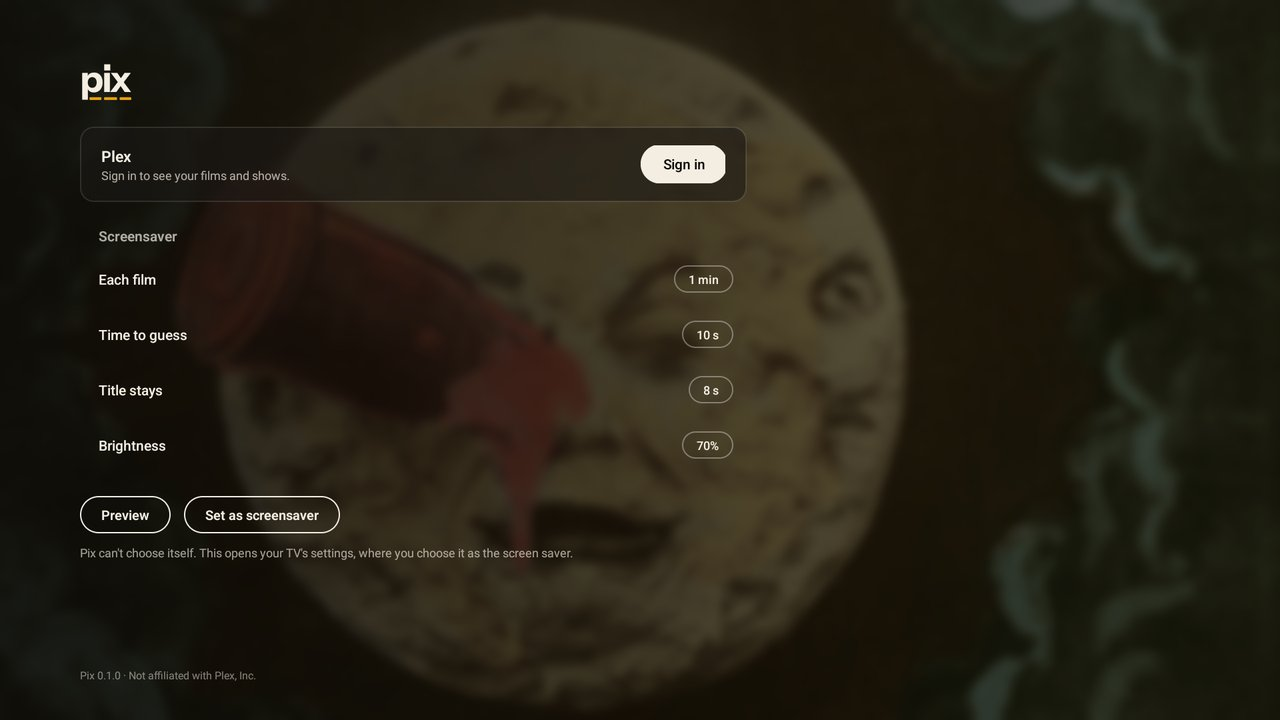
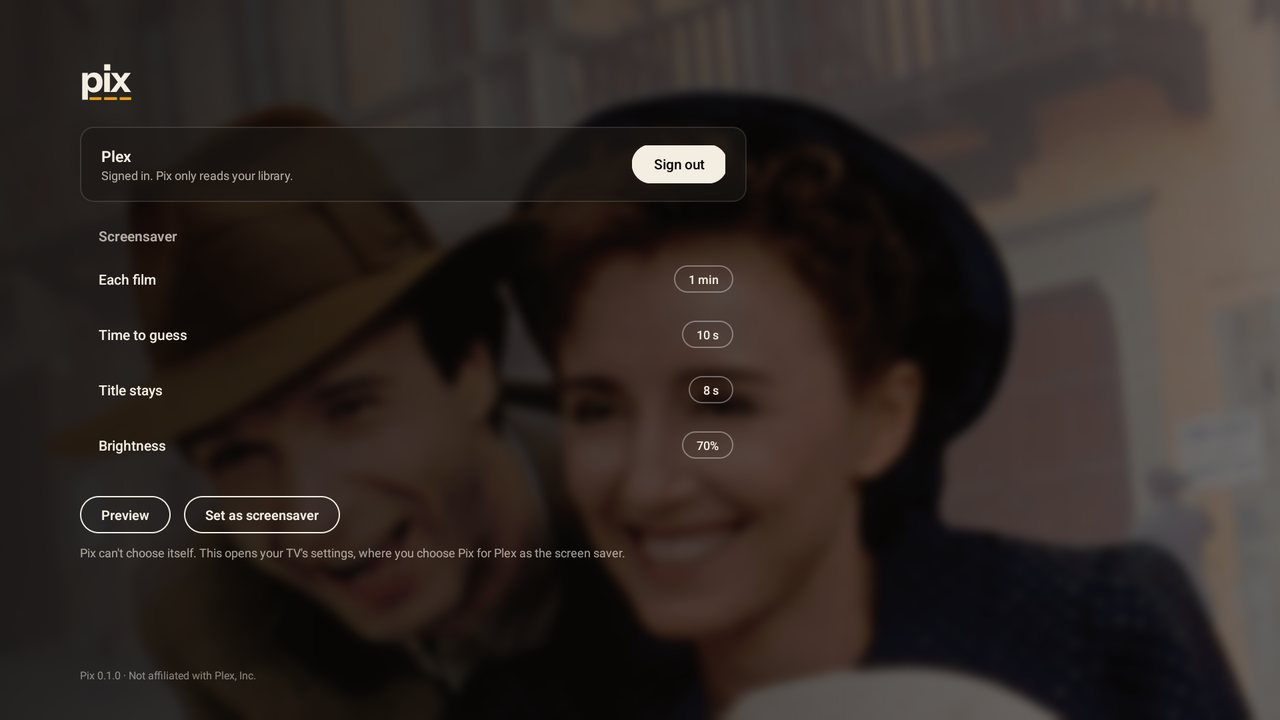
Update from source

diff --git a/README.md b/README.md
@@ -1,13 +1,21 @@
 <p align="center"><img src="docs/banner.png" alt="pix" width="480"></p>
 
-<p align="center"><strong>Your Plex library as a slow, cinematic screensaver for Android TV.</strong></p>
+<p align="center"><strong>A Plex screensaver for Android TV, the NVIDIA Shield and Google TV.</strong><br>Your Plex library as a slow, cinematic screensaver, with a guessing game.</p>
 
-<p align="center"><img src="docs/screensaver.jpg" alt="The screensaver before you sign in: the moon from A Trip to the Moon, with Plex's QR sign-in in the corner" width="860"></p>
+<p align="center"><a href="../../releases/latest"><strong>Download</strong></a> · <a href="https://work.betta.io/apps/pix/">Website</a> · <a href="#install">Install</a> · <a href="#google-tv">Google TV</a></p>
+
+<p align="center"><img src="docs/screensaver.jpg" alt="Pix on a TV: a backdrop from When Marnie Was There, with its year and a line for each word of the title" width="860"></p>
 
 Pix takes the backdrops from the films and shows on your own Plex server and gives them a film look: grain, a
 soft halation round the highlights, a little warmth. Then it pans slowly across them, one film a minute. While each
 one is on screen it plays a small guessing game: halfway through you get the year, and a line under it shows how long
 each word of the title is. Then the title appears.
+
+<table><tr>
+<td><img src="docs/still.jpg" alt="The still: a backdrop from The Long Walk with the film look" width="280"><br><sub>The still</sub></td>
+<td><img src="docs/guess.jpg" alt="The clue: She Said, with its year and a line for each word" width="280"><br><sub>The clue</sub></td>
+<td><img src="docs/title.jpg" alt="The title: When Marnie Was There" width="280"><br><sub>The title</sub></td>
+</tr></table>
 
 ## What it does
 
@@ -77,7 +85,7 @@ To go back, put the value you noted back the same way. Google TV's own is
 
 Open Pix to sign in or out, preview the screensaver and change:
 
-<p align="center"><img src="docs/settings.jpg" alt="Pix's settings: Plex, each film, time to guess, title stays and brightness" width="720"></p>
+<p align="center"><img src="docs/settings.jpg" alt="Pix's own screen: signed in to Plex, each film, time to guess, title stays and brightness, with a film blurred behind" width="720"></p>
 
 | Setting | Choices |
 | --- | --- |
@@ -107,6 +115,7 @@ You need JDK 17 and the Android SDK (Android Studio has both).
 
 ## Credits
 
+- The screenshots show films from a Plex library; their stills belong to the films' owners.
 - The moon: a frame from the hand-coloured print of Georges Méliès's *Le Voyage dans la Lune* (1902), public domain,
   via [Wikimedia Commons](https://commons.wikimedia.org/wiki/File:Melies_color_Voyage_dans_la_lune.jpg).
 - [Instrument Sans](https://github.com/Instrument/instrument-sans), under the SIL Open Font License.
